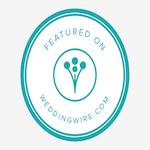
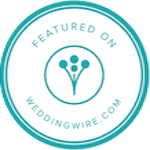
update: Client send src for vendor badge

diff --git a/src/components/FindUs.js b/src/components/FindUs.js
@@ -1,6 +1,5 @@
 import React from "react"
 import {Image} from "semantic-ui-react"
-import TheKnot from "../Images/theKnot.jpeg"
 import WeddingWire from "../Images/weddingWire.png"
 
 
@@ -10,9 +9,10 @@ const FindUs = () => (
     
       <Image
        className="findUsItem"
-       src={TheKnot}
-       alt="The Knot Logo, wedding planning site"
-       href="https://www.theknot.com/marketplace/elysian-catering-salt-lake-city-ut-2038693"
+       src="https://www.xoedge.com/myaccount/2019/website-share/VendorBadge_AsSeenOnWeb.png"
+       alt="As Seen on The Knot"
+       size="small"
+       href="https://www.theknot.com/marketplace/redirect-2038693?utm_source=vendor_website&utm_medium=banner&utm_term=68b97cb8-4426-42a9-a6eb-48aef0035bbb&utm_campaign=vendor_badge_assets"
        target="_blank"
        rel="noopener noreferrer"
        />
@@ -20,6 +20,7 @@ const FindUs = () => (
        className="findUsItem"
        src={WeddingWire}
        alt="Wedding Wire logo, wedding planning site"
+       size="small"
        href="https://www.weddingwire.com/biz/elysian-catering/4e43cba1dbf993d6.html"
        target="_blank"
        rel="noopener noreferrer"
@@ -28,5 +29,13 @@ const FindUs = () => (
     </div>
 
 )
+{/* <a target="_blank" 
+href="https://www.theknot.com/marketplace/redirect-2038693?utm_source=vendor_website&utm_medium=banner&utm_term=68b97cb8-4426-42a9-a6eb-48aef0035bbb&utm_campaign=vendor_badge_assets">
+<img 
+alt="As Seen on The Knot"
+ border="0"
+ src="https://www.xoedge.com/myaccount/2019/website-share/VendorBadge_AsSeenOnWeb.png" 
+ width="190">
 
+</a> */}
 export default FindUs;
